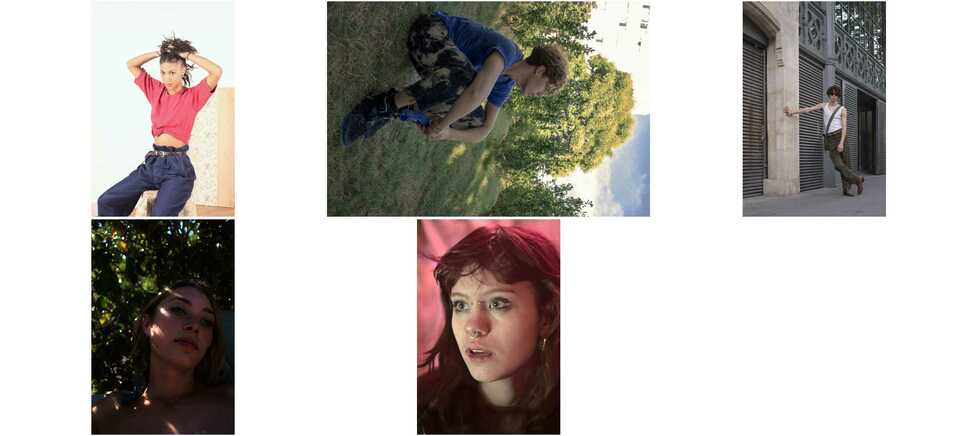
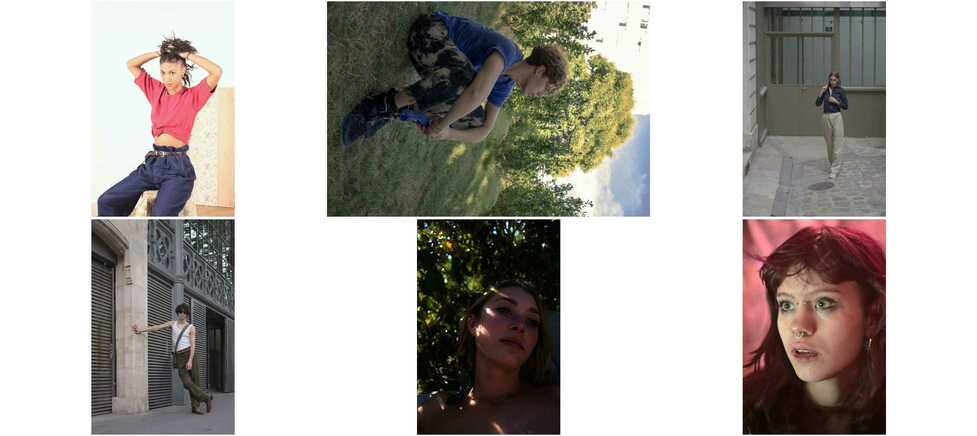
maj

Changed region(s): [[0.7369, 0.0, 0.9212, 1.0], [0.3992, 0.4771, 0.5834, 1.0], [0.0921, 0.4771, 0.2456, 1.0]]

diff --git a/image.html b/image.html
@@ -10,7 +10,7 @@
 <META NAME="ThumbnailY" CONTENT="650">
 <META NAME="DateBegin" CONTENT="201806230649.51">
 <META NAME="DateEnd" CONTENT="202312300955.34">
-<META NAME="NumImages" CONTENT="5">
+<META NAME="NumImages" CONTENT="6">
 <TITLE>image</TITLE>
 <LINK TYPE="text/css" REL="stylesheet" HREF="image.css">
 </HEAD>
@@ -21,7 +21,7 @@ if (parent.frames.length > 0) {
 }
 </SCRIPT>
 <H1 CLASS="title">image</H1>
-<H3><a href="index.html">home</a></H3>
+<h3><a href="index.html">home</a></h3>
 <TABLE WIDTH="100%" CLASS="index">
   <TR>
     <TD CLASS="index" VALIGN="middle" ALIGN="center">
@@ -36,6 +36,14 @@ if (parent.frames.length > 0) {
       <DIV CLASS="index">07/04/2020 6:59:22 PM</DIV>
       <A HREF="22.jpg" TITLE="22.jpg (14.0M)" NAME="22.jpg"><IMG SRC="thumbnail/22.jpg" WIDTH="433" HEIGHT="650" ALT=" 22.jpg " CLASS="index"></A>
       <DIV CLASS="index"><A HREF="22.jpg">full size</A>&nbsp;|&nbsp;<A HREF="medium/22.jpg">medium</A></DIV>
+    </TD>
+
+  </TR>
+  <TR>
+    <TD CLASS="index" VALIGN="middle" ALIGN="center">
+      <DIV CLASS="index">09/19/2020 5:20:52 PM</DIV>
+      <A HREF="21.jpg" TITLE="21.jpg (9.9M)" NAME="21.jpg"><IMG SRC="thumbnail/21.jpg" WIDTH="433" HEIGHT="650" ALT=" 21.jpg " CLASS="index"></A>
+      <DIV CLASS="index"><A HREF="21.jpg">full size</A>&nbsp;|&nbsp;<A HREF="medium/21.jpg">medium</A></DIV>
     </TD>
 
   </TR>
@@ -66,5 +74,6 @@ if (parent.frames.length > 0) {
 </TABLE>
 <div class="credits"><i>ch</i><br>
 <img src="ico/cc-zero.jpg" width="12" height="12">
-</div></BODY>
+</div>
+</BODY>
 </HTML>

diff --git a/index.html b/index.html
@@ -12,6 +12,5 @@
 
         <div id="links">
 	  <a class="link" href="image.html" rel="noopener">image            
-          </a><a class="link" href="about.html" rel="noopener">about
 	  </a><a class="link" href="mailto: 0xcpm@proton.me" rel="noopener">mail
         </a></div></div></div></body></html>
